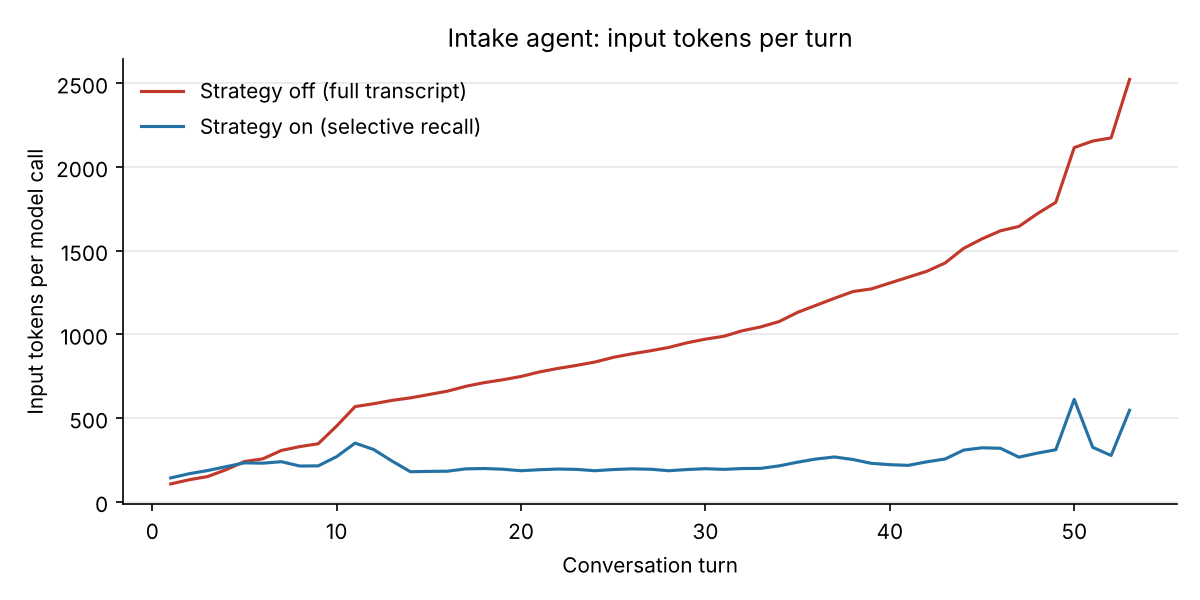
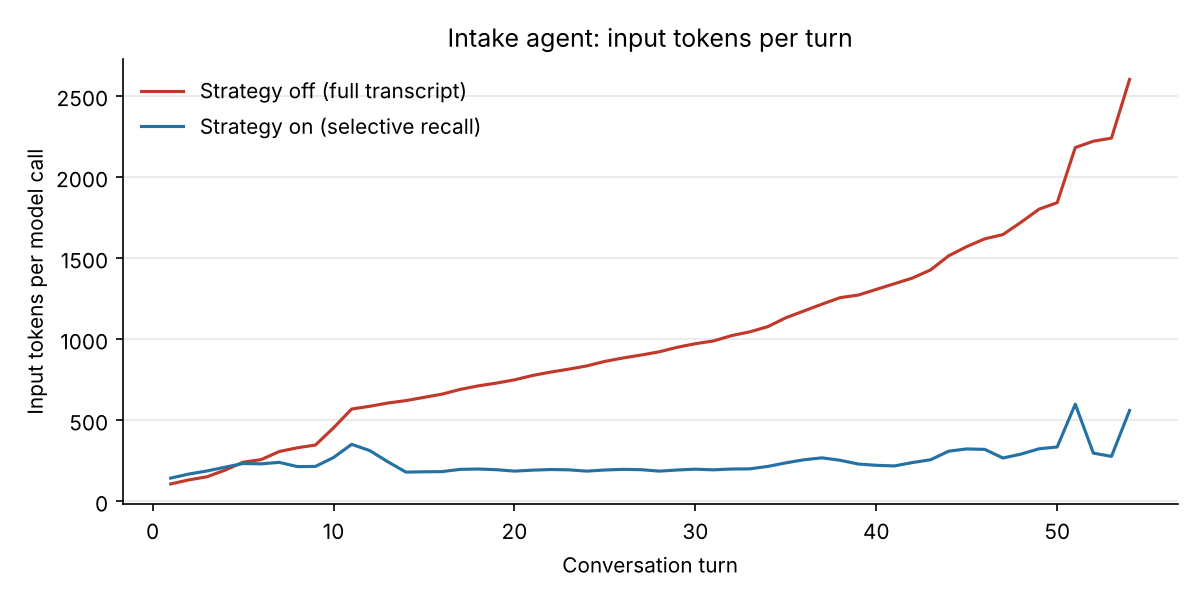
Cover all intake amounts from team checklist; rename node to intake_agent

diff --git a/src/agents/intake_script.py b/src/agents/intake_script.py
@@ -31,7 +31,7 @@ GLOSSARY: dict[str, str] = {
     "1099-DIV": "A 1099-DIV shows dividends, which are payments from stocks or funds you own.",
     "itemize": "Itemizing means listing expenses one by one instead of taking the standard amount everyone gets.",
     "power of attorney": "A power of attorney is a legal document that lets someone act on another person's behalf.",
-    "schedule 2 or 3": "Schedules 2 and 3 are extra pages of the tax return for additional taxes, credits, and payments. If you have them, they're usually from a preparer or last year's software.",
+    "schedule 2 or 3": "Schedules 1, 2, and 3 are extra pages of the tax return for additional income, taxes, credits, and payments. If you have them, they're usually from a preparer or tax software.",
 }
 
 # Values are the team's shared filing-status strings.
@@ -173,8 +173,16 @@ BASE_SLOTS: dict[str, Slot] = {s.key: s for s in [
          "On Schedule 1, what is the total of lines 11 through 20, plus lines 23 and 25, in whole dollars?",
          "Schedule 1 lines 11-20, 23 and 25", keywords=["lines 11 through 20"]),
     Slot("has_other_schedules", "yes_no",
-         "Do you have a Schedule 2 or Schedule 3 that has already been filled in?",
-         "Has Schedule 2 or 3", terms=["schedule 2 or 3"], keywords=["schedule 2", "schedule 3"]),
+         "Apart from line 26 of Schedule 1, do you have any other amounts on Schedule 1, 2, or 3 that have already been filled in?",
+         "Has other Schedule 1, 2 or 3 amounts", terms=["schedule 2 or 3"], keywords=["schedule 2", "schedule 3"]),
+    Slot("schedule_1_line_10", "money", "What is the amount on Schedule 1, line 10, in whole dollars?",
+         "Schedule 1, line 10", keywords=["schedule 1, line 10"]),
+    Slot("has_other_withholding", "yes_no",
+         "Apart from your W-2 and 1099 forms, did any other form show federal income tax withheld, such as a W-2G from gambling winnings?",
+         "Other federal tax withheld", keywords=["w-2g", "other withholding"]),
+    Slot("other_withholding_total", "money",
+         "What is the total federal income tax withheld on those other forms, in whole dollars?",
+         "Other withholding total", keywords=["withheld on those"]),
     Slot("schedule_2_line_3", "money", "What is the amount on Schedule 2, line 3, in whole dollars?",
          "Schedule 2, line 3", keywords=["schedule 2, line 3"]),
     Slot("schedule_2_line_21", "money", "What is the amount on Schedule 2, line 21, in whole dollars?",
@@ -283,6 +291,10 @@ def build_plan(a: dict[str, Any]) -> list[str]:
             p.append("adjustments_ss_worksheet")
     p.append("has_other_schedules")
     if a.get("has_other_schedules") is True:
-        p += ["schedule_2_line_3", "schedule_2_line_21", "schedule_3_line_8", "schedule_3_line_15"]
+        p += ["schedule_1_line_10", "schedule_2_line_3", "schedule_2_line_21",
+              "schedule_3_line_8", "schedule_3_line_15"]
+    p.append("has_other_withholding")
+    if a.get("has_other_withholding") is True:
+        p.append("other_withholding_total")
     p.append("confirm_all")
     return p

diff --git a/src/intake_graph.py b/src/intake_graph.py
@@ -5,9 +5,11 @@ This is for building, testing and demoing the Intake + Memory part before the
 full graph exists. In the team graph (src/graph.py, owned by David), reuse:
 
     from src.agents.intake import intake_node, route_after_intake
-    builder.add_node("intake", intake_node)
-    builder.add_conditional_edges("intake", route_after_intake,
-        {"intake": "intake", "human_review": "human_review", "done": "orchestrator"})
+    builder.add_node("intake_agent", intake_node)
+    builder.add_conditional_edges("intake_agent", route_after_intake,
+        {"intake": "intake_agent", "human_review": "human_review", "done": "orchestrator_agent"})
+
+(Node names don't match state field names, per the team checklist.)
 
 `human_review_node` below is a PLACEHOLDER so the escalation path can be
 demoed end to end. The real HITL node belongs to Guardrails / Orchestrator.
@@ -36,10 +38,10 @@ def human_review_node(state: dict) -> dict:
 
 def build_intake_graph(checkpointer=None):
     b = StateGraph(SilverFileState)
-    b.add_node("intake", intake_node)
+    b.add_node("intake_agent", intake_node)
     b.add_node("human_review", human_review_node)
-    b.add_edge(START, "intake")
-    b.add_conditional_edges("intake", route_after_intake,
-                            {"intake": "intake", "human_review": "human_review", "done": END})
-    b.add_edge("human_review", "intake")
+    b.add_edge(START, "intake_agent")
+    b.add_conditional_edges("intake_agent", route_after_intake,
+                            {"intake": "intake_agent", "human_review": "human_review", "done": END})
+    b.add_edge("human_review", "intake_agent")
     return b.compile(checkpointer=checkpointer or get_checkpointer(":memory:"))

diff --git a/tests/test_intake_flow.py b/tests/test_intake_flow.py
@@ -20,6 +20,10 @@ def test_clean_run_completes_with_expected_handoff():
     assert h["estimated_payments"] == 1200          # whole-dollar int
     assert h["adjustments_10"] == 0                 # user said no adjustments
     assert h["schedule_2_line_3"] == 0 and h["credits_21"] == 0
+    # every optional amount on the team checklist is present
+    for key in ("estimated_payments", "adjustments_10", "other_income_8", "schedule_2_line_3", "credits_21",
+                "other_taxes_23", "other_withholding_25c", "other_payments_32"):
+        assert isinstance(h[key], int), key
     assert h["entered_by"] == "taxpayer"
     # provenance on every user answer
     for slot, rec in st["answers"].items():
@@ -64,6 +68,14 @@ def test_mfs_asks_lived_apart_and_cents_are_not_rounded_by_intake():
     assert "round to the nearest dollar" in s.last["text"]
     s.say("1,235")
     assert s.state["answers"]["estimated_payments_total"]["value"] == 1235
+
+
+def test_schedule_amounts_reach_the_handoff():
+    run = CLEAN_RUN[:-3] + ["yes", "100", "0", "50", "200", "0", "yes", "75", "yes"]
+    s = Session().say_all(run)
+    h = s.state["intake"]
+    assert (h["other_income_8"], h["schedule_2_line_3"], h["other_taxes_23"], h["credits_21"],
+            h["other_payments_32"], h["other_withholding_25c"]) == (100, 0, 50, 200, 0, 75)
 
 
 def test_one_question_at_a_time():

diff --git a/src/memory.py b/src/memory.py
@@ -149,13 +149,17 @@ def intake_handoff(state: dict) -> dict:
         if asked("adjustments_ss_worksheet"):
             out["adjustments_ss_worksheet"] = val("adjustments_ss_worksheet")
     if asked("has_other_schedules"):
-        sched = {"schedule_2_line_3": "schedule_2_line_3",   # 1040-SR line 17
+        sched = {"other_income_8": "schedule_1_line_10",      # 1040-SR line 8
+                 "schedule_2_line_3": "schedule_2_line_3",   # line 17
                  "other_taxes_23": "schedule_2_line_21",      # line 23
                  "credits_21": "schedule_3_line_8",           # line 20 (no line 19 credits in scope)
                  "other_payments_32": "schedule_3_line_15"}   # line 31
         for key, slot in sched.items():
             out[key] = val(slot) if val("has_other_schedules") else (
                 0 if val("has_other_schedules") is False else None)
+    if asked("has_other_withholding"):
+        out["other_withholding_25c"] = val("other_withholding_total") if val("has_other_withholding") else (
+            0 if val("has_other_withholding") is False else None)
     return out
 
 

diff --git a/scripts/measure_context.py b/scripts/measure_context.py
@@ -41,7 +41,7 @@ LONG_SESSION = [
     "Actually, I made a mistake. My birthday is March 5, 1950",
     "yes", "what is a 1099-R", "yes", "1", "no", "yes", "yes",
     "Can I deduct my medications?", "no", "no",
-    "yes", "about 1200", "no", "no", "no", "my date of birth", "March 4, 1950", "yes",
+    "yes", "about 1200", "no", "no", "no", "no", "my date of birth", "March 4, 1950", "yes",
 ]
 
 

diff --git a/tests/intake_helpers.py b/tests/intake_helpers.py
@@ -10,7 +10,8 @@ CLEAN_RUN = [
     "yes", "Emma Lee", "granddaughter", "901-23-4567", "no",
     "yes", "1", "yes", "yes", "1", "no", "yes", "no", "no", "no",
     "yes", "$1,200", "no",
-    "no",   # Schedule 2 or 3
+    "no",   # other Schedule 1, 2 or 3 amounts
+    "no",   # other withholding (e.g. W-2G)
     "yes",  # confirm
 ]
 

diff --git a/docs/metrics.md b/docs/metrics.md
@@ -3,7 +3,7 @@
 Agent measured: **Intake** (the model-calling agent with the longest conversation).
 Strategy: **selective recall** = fixed system prompt + a code-generated summary of decisions so far + only the last 4 turns (long ones clipped) + the current question. Disabled = the whole transcript is sent every turn.
 
-Session: one scripted intake of 53 turns (`scripts/measure_context.py`, `LONG_SESSION`): four dependents, jargon questions, a tax-advice question, a correction, off-topic drift, and a change at the confirmation step.
+Session: one scripted intake of 54 turns (`scripts/measure_context.py`, `LONG_SESSION`): four dependents, jargon questions, a tax-advice question, a correction, off-topic drift, and a change at the confirmation step.
 
 Token counts: `tiktoken` (cl100k encoding on the exact messages the agent sends; rerun with `--live` for provider-reported counts).
 
@@ -17,11 +17,11 @@ python -m scripts.measure_context --both
 | | Strategy OFF | Strategy ON |
 |---|---:|---:|
 | First turn | 107 | 143 |
-| Last turn | 2523 | 547 |
-| Max | 2523 | 612 |
-| Mean | 986 | 242 |
-| Total over session | 52260 | 12841 |
-| Growth per turn (last minus first, over turns) | 46.5 | 7.8 |
+| Last turn | 2602 | 560 |
+| Max | 2602 | 599 |
+| Mean | 1007 | 244 |
+| Total over session | 54392 | 13160 |
+| Growth per turn (last minus first, over turns) | 47.1 | 7.9 |
 
 With the strategy off, every turn re-sends the whole conversation, so cost grows in a straight line. With it on, the window of recent turns is fixed and the decisions summary is bounded, so the cost per turn stays roughly constant however long the session runs. Nothing is lost: the full answers live in the state's answer ledger, not in the prompt.
 
@@ -79,8 +79,9 @@ The two small bumps near the end of the ON curve are the confirmation step: ther
 | 46 | `made_estimated_payments` | 1619 | 320 |
 | 47 | `estimated_payments_total` | 1645 | 267 |
 | 48 | `has_adjustments` | 1721 | 291 |
-| 49 | `has_other_schedules` | 1789 | 311 |
-| 50 | `confirm_all` | 2116 | 612 |
-| 51 | `change_what` | 2155 | 326 |
-| 52 | `taxpayer_dob` | 2174 | 277 |
-| 53 | `confirm_all` | 2523 | 547 |
+| 49 | `has_other_schedules` | 1802 | 324 |
+| 50 | `has_other_withholding` | 1842 | 335 |
+| 51 | `confirm_all` | 2182 | 599 |
+| 52 | `change_what` | 2221 | 297 |
+| 53 | `taxpayer_dob` | 2240 | 277 |
+| 54 | `confirm_all` | 2602 | 560 |

diff --git a/docs/INTAKE_INTERFACE.md b/docs/INTAKE_INTERFACE.md
@@ -6,9 +6,9 @@ Owner: Karan. Ask before renaming any of these.
 
 ```python
 from src.agents.intake import intake_node, route_after_intake
-builder.add_node("intake", intake_node)
-builder.add_conditional_edges("intake", route_after_intake,
-    {"intake": "intake", "human_review": "human_review", "done": "orchestrator"})
+builder.add_node("intake_agent", intake_node)
+builder.add_conditional_edges("intake_agent", route_after_intake,
+    {"intake": "intake_agent", "human_review": "human_review", "done": "orchestrator_agent"})
 ```
 
 - Intake asks **one question each time the node runs**, using `interrupt()`.
@@ -38,9 +38,12 @@ builder.add_conditional_edges("intake", route_after_intake,
 | `estimated_payments` | int | Line 26 |
 | `adjustments_10` | int | Line 10 (Schedule 1, line 26) |
 | `adjustments_ss_worksheet` | int | Schedule 1 lines 11–20, 23, 25. Asked only when there are adjustments **and** an SSA-1099 |
-| `schedule_2_line_3`, `other_taxes_23`, `credits_21`, `other_payments_32` | int | From Schedule 2 line 3, Schedule 2 line 21, Schedule 3 line 8, and Schedule 3 line 15. **Kapil, please check this mapping.** |
+| `other_income_8`, `schedule_2_line_3`, `other_taxes_23`, `credits_21`, `other_payments_32` | int | From Schedule 1 line 10, Schedule 2 line 3, Schedule 2 line 21, Schedule 3 line 8, and Schedule 3 line 15. **Kapil, please check this mapping.** |
+| `other_withholding_25c` | int | Federal tax withheld on forms other than W-2 and 1099 (e.g. W-2G) |
 | `unsure` | list of question names | The user said "not sure" to these. Each has a `user_unsure` escalation. |
 | `volunteer_questions` | list of str | Advice questions noted for the human preparer |
+
+All nine optional amounts on Kapil's checklist are covered.
 
 **Dollar keys follow one rule:**
 

diff --git a/docs/INTAKE_AND_MEMORY.md b/docs/INTAKE_AND_MEMORY.md
@@ -91,13 +91,13 @@ The strategy is **selective recall**. Each model call gets:
 
 Without the strategy, the whole transcript is sent every time. The summary is generated by code from the answer ledger, not by an LLM, so it can't drop or invent a fact.
 
-Measured over a 53-turn intake session (`docs/metrics.md`, `docs/context_tokens.png`), in input tokens:
+Measured over a 54-turn intake session (`docs/metrics.md`, `docs/context_tokens.png`), in input tokens:
 
 | | Off | On |
 |---|---:|---:|
-| Mean per turn | 986 | 242 |
-| Last turn | 2,523 | 547 |
-| Total | 52,260 | 12,841 |
+| Mean per turn | 1,007 | 244 |
+| Last turn | 2,602 | 560 |
+| Total | 54,392 | 13,160 |
 
 Off grows in a straight line. On stays roughly flat, about 75% fewer tokens overall. Reproduce with `python -m scripts.measure_context --both`. Counts are tiktoken estimates on the exact messages sent; add `--live` for provider-reported counts.
 
@@ -111,7 +111,7 @@ Off grows in a straight line. On stays roughly flat, about 75% fewer tokens over
 
 ## 8. How it was tested
 
-There are 54 automated tests for Intake and memory (`pytest -q` runs these plus the rest of the team's). They cover:
+There are 55 automated tests for Intake and memory (`pytest -q` runs these plus the rest of the team's). They cover:
 
 - a clean run
 - one question per prompt
